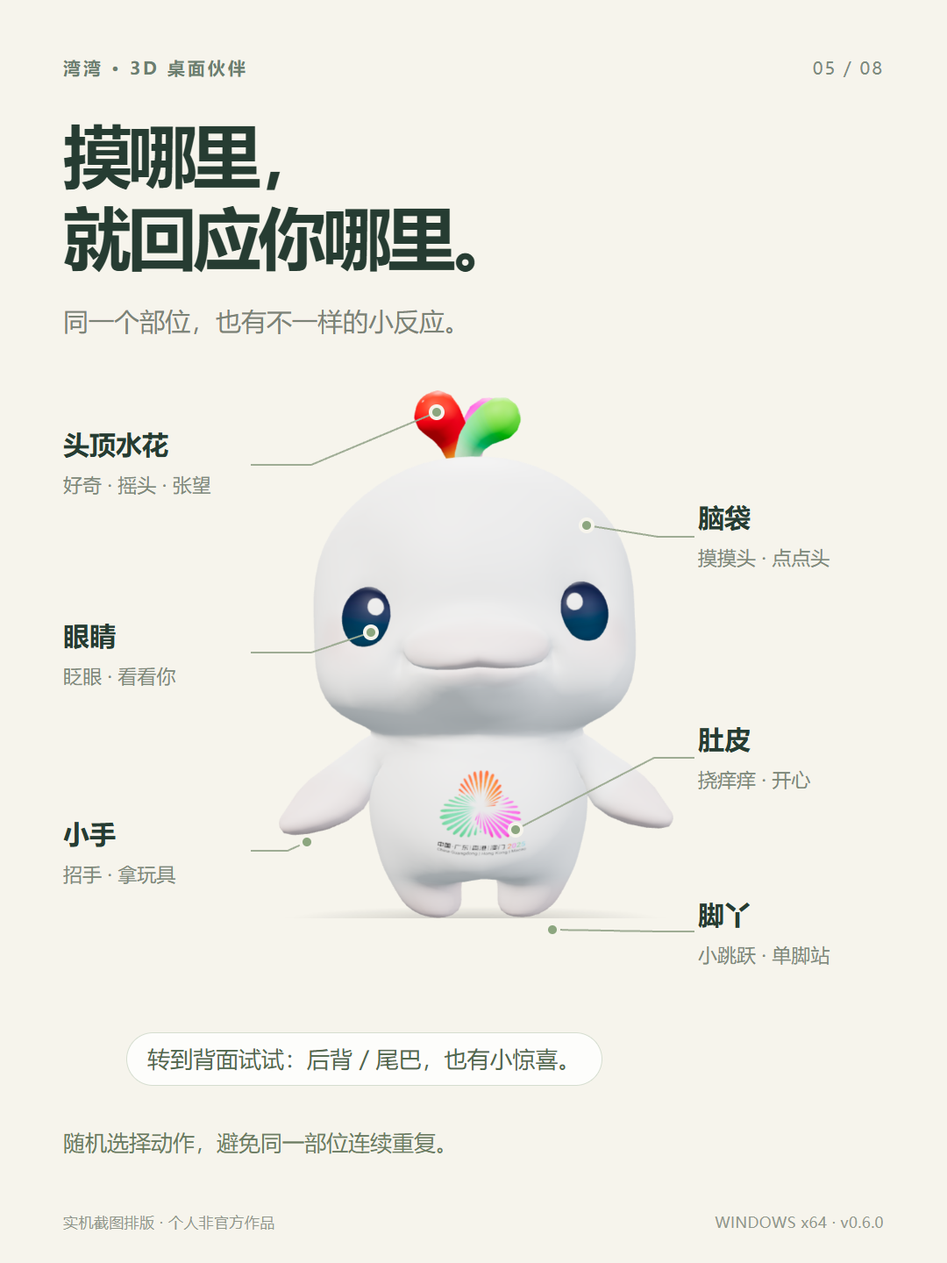
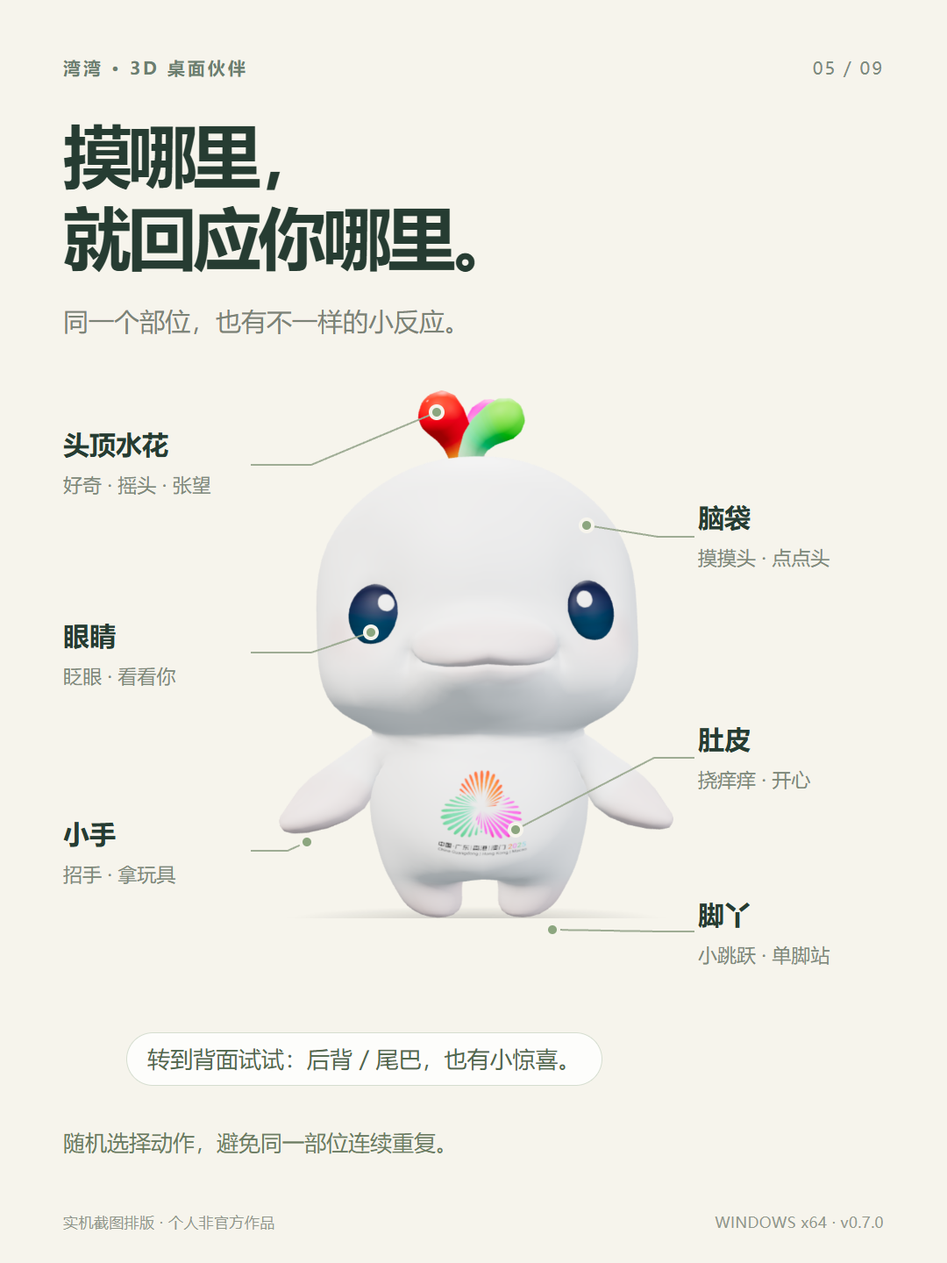
Release v0.7.0 with custom names and natural tennis and edge animations

diff --git a/src/panel.js b/src/panel.js
@@ -3,7 +3,8 @@ decorateIcons();
 (async () => {
 const api = window.bay;
 const $ = s => document.querySelector(s);
-let state, busy = false, pending = null, responseText = '', dirty = false, lastError = '';
+let state, busy = false, pending = null, responseText = '', dirty = false, sizeChanged = false, lastError = '';
+const name=()=>state?.settings.nickname||'湾湾';
 function toast(text) { $('#toast').textContent = text; $('#toast').hidden = false; clearTimeout(toast.timer); toast.timer = setTimeout(() => $('#toast').hidden = true, 4500); }
 function tab(name) {
   api.resizePanel(name);
@@ -13,7 +14,7 @@ function tab(name) {
 }
 function message(role, content, extra = '') {
   const div = document.createElement('div'); div.className = `message ${role} ${extra}`;
-  const label = document.createElement('span'); label.className = 'message-label'; label.textContent = role === 'user' ? '你' : (state?.connected ? '湾湾' : '湾湾 · 离线预设');
+  const label = document.createElement('span'); label.className = 'message-label'; label.textContent = role === 'user' ? '你' : (state?.connected ? name() : `${name()} · 离线预设`);
   const body = document.createElement('div'); body.className = 'message-content'; body.textContent = content;
   div.append(label, body); $('#messages').append(div); scroll(); return div;
 }
@@ -28,13 +29,18 @@ function renderHistory() {
 }
 function fillSettings() {
   const s = state.settings;
-  for (const id of ['provider', 'endpoint', 'model', 'scale', 'motionSpeed', 'motionIntensity']) $('#' + id).value = s[id];
+  sizeChanged=false;
+  for (const id of ['nickname', 'provider', 'endpoint', 'model', 'scale', 'motionSpeed', 'motionIntensity']) $('#' + id).value = s[id];
   for (const id of ['voice', 'alwaysOnTop','edgeSnap']) $('#' + id).checked = s[id];
   $(`input[name=skin][value=${s.skin}]`).checked = true;
   $('#key-status').textContent = state.hasKey ? '已保存 · 留空保留' : '未设置';
 }
 function update(next) {
   state = next;
+  document.title=name();
+  $('#rename-pet').textContent=name();$('#rename-pet').title=`${name()} · 点击改名`;
+  $('#hello-chip').textContent=`你好，${name()}`;$('#help-title').textContent=`陪${name()}玩`;
+  $('#message-input').placeholder=`和${name()}说点什么…`;
   $('#app-version').textContent=`湾湾 v${state.version}`;
   $('#shortcut-status').textContent=`${state.shortcuts?.toggle?'F8 显示 / 隐藏':'F8 被占用，请使用托盘'} · ${state.shortcuts?.panel?'Ctrl + Alt + B 打开面板':'面板快捷键被占用，可点「…」'}`;
   $('.connection').classList.toggle('online', state.connected);
@@ -76,10 +82,13 @@ $('#message-input').addEventListener('keydown', e => { if (e.key === 'Enter' && 
 $('#stop').onclick = () => api.cancelChat();
 $('#close').onclick = () => { speechSynthesis?.cancel(); api.closePanel(); };
 $('#connect-link').onclick = () => tab('settings');
+$('#rename-pet').onclick=()=>{tab('settings');$('#nickname').focus();$('#nickname').select();};
 document.querySelectorAll('.tab').forEach(b => b.onclick = () => tab(b.dataset.tab));
 document.querySelectorAll('.suggestions button').forEach(b => b.onclick = () => b.id === 'dance-chip' ? api.action('dance') : void submit(b.textContent));
 $('#clear-history').onclick = async () => { if (busy) return toast('请先停止当前回复。'); const r = await api.clearHistory(); if (!r.ok) toast(r.error); else { lastError = ''; state = await api.getState(); renderHistory(); speechSynthesis?.cancel(); toast('聊天记录已清空。'); } };
 $('#settings-form').oninput = () => { dirty = true; $('#settings-feedback').textContent = ''; };
+$('#scale').oninput=()=>{sizeChanged=true;};
+$('#nickname').oninput=e=>{const n=Array.from(new Intl.Segmenter('zh',{granularity:'grapheme'}).segment(e.target.value.trim())).length;e.target.setCustomValidity(n>16?'名字最多 16 个字。':'');};
 $('#provider').onchange = () => {
   if ($('#provider').value === 'openai') { $('#endpoint').value = 'https://api.openai.com/v1'; $('#model').value = 'gpt-6-astra'; }
   else { $('#endpoint').value = 'http://localhost:11434/v1'; $('#model').value = 'qwen3:8b'; }
@@ -88,10 +97,10 @@ $('#settings-form').onsubmit = async e => {
   e.preventDefault(); const button = $('.save-button'); button.disabled = true;
   try {
     const result = await api.saveSettings({ ...state.settings, provider: $('#provider').value, endpoint: $('#endpoint').value, model: $('#model').value,
-      apiKey: $('#apiKey').value, clearKey: $('#clearKey').checked, scale: Number($('#scale').value),
+      nickname:$('#nickname').value,apiKey: $('#apiKey').value, clearKey: $('#clearKey').checked, scale: sizeChanged?Number($('#scale').value):state.settings.scale,
       skin: $('input[name=skin]:checked').value, edgeSnap:$('#edgeSnap').checked,voice: $('#voice').checked, alwaysOnTop: $('#alwaysOnTop').checked,
       motionSpeed: Number($('#motionSpeed').value), motionIntensity: Number($('#motionIntensity').value) });
-    $('#settings-feedback').textContent = result.ok ? '已保存，湾湾准备好啦。' : result.error;
+    $('#settings-feedback').textContent = result.ok ? '已保存，准备好啦。' : result.error;
     if (result.ok) { dirty = false; $('#apiKey').value = ''; $('#clearKey').checked = false; update(await api.getState()); }
   } catch { $('#settings-feedback').textContent = '保存失败，请重新打开桌宠后重试。'; } finally { button.disabled = false; }
 };
@@ -107,7 +116,7 @@ api.on('help:open',showHelp);
 function renderPet(p) {
   if (!p) return;
   const labels={wave:'招手',dance:'跳舞',jump:'开心蹦蹦',stretch:'伸懒腰',spin:'转圈',pet:'享受摸头',tickle:'被挠痒痒',sleep:'打瞌睡',curious:'歪头想事情',wink:'给你眨眼',look:'左顾右盼',happy:'开心眯眼',sitDown:'找凳子坐',standUp:'从凳子起身',eat:'吃糖葫芦',ball:'玩小球',pinwheel:'吹风车',tennis:'网球对打',serve:'抛球发球',victory:'好球庆祝'};
-  $('#presence-text').textContent = p.paused ? '湾湾在这里，静静陪你' : `湾湾正在${labels[p.mode] || (p.edge?'趴边陪你':p.posture === 'sit' ? '坐着陪你' : '站着陪你')}`;
+  $('#presence-text').textContent = p.paused ? `${name()}在这里，静静陪你` : `${name()}正在${labels[p.mode] || (p.edge?'趴边陪你':p.posture === 'sit' ? '坐着陪你' : '站着陪你')}`;
   $('#expression-text').textContent = p.expression;
   document.querySelectorAll('#play-view [data-action]').forEach(b => { const active=b.dataset.action === (p.mode === 'idle' ? p.posture : p.mode); b.classList.toggle('selected',active); b.setAttribute('aria-pressed',String(active)); });
   $('#pause-motion span').textContent = p.paused ? '继续' : '暂停';

diff --git a/src/panel.html b/src/panel.html
@@ -1,6 +1,6 @@
 <!doctype html><html lang="zh-CN"><head><meta charset="UTF-8"><meta name="viewport" content="width=device-width,initial-scale=1"><meta http-equiv="Content-Security-Policy" content="default-src 'self'; script-src 'self'; style-src 'self' 'unsafe-inline'; img-src 'self' data:; connect-src 'none'; media-src 'self' blob:"><title>湾湾的小窝</title><link rel="stylesheet" href="style.css"></head><body class="panel-page">
 <main class="panel-shell">
-<header class="titlebar"><strong>湾湾</strong><span id="expression-text">自然</span><button class="icon-button" id="close" title="收起" aria-label="收起窗口">×</button></header>
+<header class="titlebar"><button id="rename-pet" class="pet-name-button" title="给它起个名字" aria-label="给桌宠改名">湾湾</button><span id="expression-text">自然</span><button class="icon-button" id="close" title="收起" aria-label="收起窗口">×</button></header>
 <div class="tabs"><button class="tab active" data-tab="play">互动</button><button class="tab" data-tab="chat">聊天</button><button class="tab" data-tab="settings">设置</button></div>
 <section id="play-view" class="view play-view">
 <div class="compact-status"><span class="alive-dot"></span><span id="presence-text">就在你身边</span><button id="panel-reset-view" title="视角回正" aria-label="视角回正"><i data-icon="reset"></i></button></div>
@@ -19,14 +19,15 @@
 <section id="chat-view" class="view chat-view" hidden>
 <div class="connection"><span class="status-dot"></span><span id="connection-label">离线陪伴</span><button id="connect-link">连接 AI ↗</button></div>
 <div id="messages" class="messages" role="log" aria-live="polite"><div class="welcome"><span class="welcome-kicker">HELLO, MY HUMAN</span><h1>你忙你的，<br>我陪着你<span>。</span></h1><p>一只爱整活的大湾鸡，<br>和一点刚刚好的陪伴。</p><div class="welcome-line"></div><span class="welcome-tip">摸摸头 · 一起发呆 · 随时说说话</span></div></div>
-<div id="suggestions" class="suggestions"><button>今天有点累</button><button>你好，湾湾</button><button id="dance-chip">跳个舞吧 ♫</button></div>
+<div id="suggestions" class="suggestions"><button>今天有点累</button><button id="hello-chip">你好，湾湾</button><button id="dance-chip">跳个舞吧 ♫</button></div>
 <div class="composer-wrap"><form id="chat-form" class="composer"><textarea id="message-input" rows="2" maxlength="8000" placeholder="和湾湾说点什么…" aria-label="聊天消息"></textarea><div class="composer-bottom"><span>Enter 发送 · Shift + Enter 换行</span><button id="send" type="submit" title="发送消息" aria-label="发送消息">↑</button><button id="stop" type="button" hidden>停止</button></div></form><div class="composer-note"><span id="privacy-note">离线回应是预设台词 · 不发送到网络</span><button id="clear-history">清空聊天</button></div></div>
 </section>
 <section id="settings-view" class="view settings-view" hidden>
 <div class="settings-heading"><span class="welcome-kicker"></span><h2>偏好设置</h2></div>
 <form id="settings-form">
+<div class="settings-card"><div class="section-caption">它的名字</div><label for="nickname">给桌宠起个名字<input id="nickname" name="nickname" maxlength="512" placeholder="湾湾" autocomplete="off" spellcheck="false" aria-describedby="name-note"></label><p id="name-note" class="field-note">最多 16 个字，支持表情；留空恢复“湾湾”。下次打开也会记住。</p></div>
 <div class="settings-card"><div class="section-caption">互动与动作</div><label class="toggle-row">靠近边缘自动趴边<input id="edgeSnap" type="checkbox" checked></label><label class="range-label">动作速度 <input id="motionSpeed" type="range" min="0.6" max="1.6" step="0.1" value="1"></label><label class="range-label">动作幅度 <input id="motionIntensity" type="range" min="0.5" max="1.3" step="0.1" value="1"></label><p class="field-note">“互动”里可开关自主小动作和目光跟随。玩玩具、表情动作后保留坐姿；跳跃、跳舞等需要先站起来。</p></div>
-<div class="settings-card"><div class="section-caption">01 / 湾湾的模样</div><div class="skin-options"><label><input type="radio" name="skin" value="white" checked><span class="skin-swatch white"></span>白色湾湾</label><label><input type="radio" name="skin" value="pink"><span class="skin-swatch pink"></span>粉色湾湾</label></div><label class="range-label">桌宠大小 <input id="scale" type="range" min="0.7" max="1.35" step="0.05" value="1"></label><label class="toggle-row">始终放在其他窗口上方<input id="alwaysOnTop" type="checkbox" checked></label><label class="toggle-row">朗读回复（系统语音）<input id="voice" type="checkbox"></label></div>
+<div class="settings-card"><div class="section-caption">01 / 外观</div><div class="skin-options"><label><input type="radio" name="skin" value="white" checked><span class="skin-swatch white"></span>白色</label><label><input type="radio" name="skin" value="pink"><span class="skin-swatch pink"></span>粉色</label></div><label class="range-label">桌宠大小 <input id="scale" type="range" min="0.7" max="1.35" step="0.05" value="1"></label><label class="toggle-row">始终放在其他窗口上方<input id="alwaysOnTop" type="checkbox" checked></label><label class="toggle-row">朗读回复（系统语音）<input id="voice" type="checkbox"></label></div>
 <div class="settings-card"><div class="section-caption">02 / 连接 AI</div><label>接口类型<select id="provider"><option value="openai">OpenAI · Responses API</option><option value="compatible">兼容接口 · Chat Completions</option></select></label><label>接口地址<input id="endpoint" type="url" value="https://api.openai.com/v1" spellcheck="false" required></label><label>模型名称<input id="model" value="gpt-6-astra" spellcheck="false" required></label><label>API Key <span id="key-status"></span><input id="apiKey" type="password" placeholder="输入密钥，保存在本机系统加密存储中" autocomplete="off" spellcheck="false"></label><label class="toggle-row muted">移除已保存的密钥<input id="clearKey" type="checkbox"></label><p class="field-note">支持 OpenAI、兼容服务和本机模型。换接口时需重新填写对应密钥。接入后会向所选服务发送当前消息和最近 24 条对话。</p></div>
 <button class="save-button" type="submit">保存设置 <span>↗</span></button><p id="settings-feedback" role="status"></p>
 </form>

diff --git a/src/props.js b/src/props.js
@@ -1,5 +1,6 @@
 import * as THREE from 'three';
 import {tennisSample} from './tennis.mjs';
+import {buildTennisRacket,RACKET_PROFILE} from './tennis-racket.mjs';
 
 const up=new THREE.Vector3(0,1,0),v=new THREE.Vector3(),mouth=new THREE.Vector3(),direction=new THREE.Vector3(),q=new THREE.Quaternion();
 const clamp=THREE.MathUtils.clamp;
@@ -39,16 +40,11 @@ export function createProps(scene){
   const petal=new THREE.Shape();petal.moveTo(0,0);petal.bezierCurveTo(.03,.23,.23,.32,.28,.12);petal.quadraticCurveTo(.18,.02,0,0);
   for(let i=0;i<4;i++){const p=mesh(rotor,new THREE.ExtrudeGeometry(petal,{depth:.014,bevelEnabled:true,bevelSegments:2,steps:1,bevelSize:.008,bevelThickness:.005,curveSegments:12}),mat(['#e8b09c','#afcbb3','#d0bfdc','#efd491'][i],.35));p.rotation.z=i*Math.PI/2;}
   sphere(rotor,.045,mat('#f8e8c9'),[0,0,.05]);
-  const racket=new THREE.Group();racket.name='tennis-racket';racket.userData.action='tennis';scene.add(racket);
-  const frame=mat('#8db7a4',.38),handle=mat('#384d50',.85);
-  cylinder(racket,.034,.030,.30,handle,[0,.10,0]);cylinder(racket,.018,.018,.20,frame,[0,.32,0]);
-  const hoop=mesh(racket,new THREE.TorusGeometry(.24,.023,10,48),frame,[0,.72,0]);hoop.scale.y=1.32;
-  const strings=[];for(let i=-3;i<=3;i++){const a=i*.059,b=Math.sqrt(1-(a/.24)**2)*.316;strings.push(a,.72-b,0,a,.72+b,0);const y=i*.077,x=Math.sqrt(1-(y/.316)**2)*.24;strings.push(-x,.72+y,0,x,.72+y,0);}
-  const stringMesh=new THREE.LineSegments(new THREE.BufferGeometry().setAttribute('position',new THREE.Float32BufferAttribute(strings,3)),new THREE.LineBasicMaterial({color:'#faf5de'}));racket.add(stringMesh);
+  const racket=buildTennisRacket();scene.add(racket);
   const tennisBall=new THREE.Group();tennisBall.name='tennis-ball';tennisBall.userData.action='tennis';scene.add(tennisBall);
-  sphere(tennisBall,.112,mat('#c5dc42',.96),[0,0,0]);
-  const seam=[];for(let i=0;i<=80;i++){const a=i/80*Math.PI*2;seam.push(new THREE.Vector3(Math.cos(a)*.8,Math.sin(a),.6*Math.cos(2*a)).normalize().multiplyScalar(.114));}
-  mesh(tennisBall,new THREE.TubeGeometry(new THREE.CatmullRomCurve3(seam,true),80,.0045,5,true),mat('#ffffe4',.9));
+  sphere(tennisBall,RACKET_PROFILE.ballRadius,mat('#c5dc42',.96),[0,0,0]);
+  const seam=[];for(let i=0;i<=80;i++){const a=i/80*Math.PI*2;seam.push(new THREE.Vector3(Math.cos(a)*.8,Math.sin(a),.6*Math.cos(2*a)).normalize().multiplyScalar(RACKET_PROFILE.ballRadius+.0015));}
+  mesh(tennisBall,new THREE.TubeGeometry(new THREE.CatmullRomCurve3(seam,true),80,.003,5,true),mat('#ffffe4',.9));
   const contact=new THREE.Vector3(),ballOffset=new THREE.Vector3(),rotation=new THREE.Euler();
   const all=[stool,candy,ball,pinwheel,racket,tennisBall];all.forEach(o=>{o.visible=false;o.traverse(m=>{if(m.material)m.material=m.material.clone();});});
   const pose={chair:0,eat:0,bites:0,ball:0,pinwheel:0,tennis:0,tennisKind:0,tennisPhase:''};
@@ -79,20 +75,20 @@ export function createProps(scene){
     }
     fade(racket,clamp(p.tennis||0,0,1));fade(tennisBall,clamp(p.tennis||0,0,1));
     if(racket.visible){
-      character.bone.armR.localToWorld(v.set(.46,-.18,.24));racket.position.copy(v);root.getWorldQuaternion(q);racket.quaternion.copy(q).multiply(new THREE.Quaternion().setFromEuler(rotation.set(.75,0,p.racketAngle||0)));racket.scale.setScalar(s);racket.updateMatrixWorld(true);
-      racket.localToWorld(contact.set(0,.72,.035));const a=tennisSample(Math.round(p.tennisKind),p.toyTime);pose.tennisPhase=a.phase;
+      character.bone.armR.localToWorld(v.set(.46,-.18,.30));racket.position.copy(v);root.getWorldQuaternion(q);racket.quaternion.copy(q).multiply(new THREE.Quaternion().setFromEuler(rotation.set(p.racketPitch??.65,p.racketYaw||0,p.racketAngle||0)));racket.scale.setScalar(s);racket.updateMatrixWorld(true);
+      racket.localToWorld(contact.set(0,RACKET_PROFILE.center,.035));const a=tennisSample(Math.round(p.tennisKind),p.toyTime);pose.tennisPhase=a.phase;pose.contactDelta=a.delta;
       if(a.celebrate)tennisBall.visible=false;
       else if(a.toss){
-        const u=clamp((p.toyTime-.7)/2.4,0,1);root.localToWorld(v.set(-.65+1.5*u,1.02+Math.sin(u*Math.PI)*1.60+.55*u,1.05));
-        v.lerp(contact,Math.max(0,(u-.8)/.2));tennisBall.position.copy(v);
+        const u=clamp((p.toyTime-.7)/2.4,0,1);character.bone.armL.localToWorld(v.set(-.46,-.18,.30));root.localToWorld(ballOffset.set(-.78+1.60*u,1.06+Math.sin(u*Math.PI)*1.95+.75*u,1.04));v.lerp(ballOffset,clamp((p.toyTime-.45)/.35,0,1));
+        v.lerp(contact,Math.pow(clamp((u-.65)/.35,0,1),2));tennisBall.position.copy(v);
       }else{
-        const d=clamp(a.delta/.9,-1,1);ballOffset.set(-d*.85,Math.sin(Math.abs(d)*Math.PI)*.32,d>.05?.40*d:.28*Math.abs(d)).applyQuaternion(q).multiplyScalar(s);tennisBall.position.copy(contact).add(ballOffset);
-        if(Math.abs(a.delta)>.95)tennisBall.visible=false;
+        const d=clamp(a.delta/1.0,-1,1);ballOffset.set(-d*1.35,Math.sin(Math.abs(d)*Math.PI)*.40+(d>0?d*.12:0),Math.abs(d)*.38).applyQuaternion(q).multiplyScalar(s);tennisBall.position.copy(contact).add(ballOffset);
+        if(Math.abs(a.delta)>1.05)tennisBall.visible=false;
       }
-      tennisBall.scale.setScalar(s);if(!paused)tennisBall.rotation.x+=dt*5;
+      tennisBall.scale.setScalar(s);if(!paused){tennisBall.rotation.x+=dt*8;tennisBall.rotation.z+=dt*3;}pose.contactGap=tennisBall.position.distanceTo(contact)/s;
     }
   }
   function pickables(){const result=[];function visit(o){if(!o.visible)return;if(o.isMesh)result.push(o);for(const c of o.children)visit(c);}all.forEach(visit);return result;}
   function actionFor(object){for(let o=object;o;o=o.parent)if(o.userData.action)return o.userData.action;return null;}
-  return{all,update,pickables,actionFor,diagnostics:()=>({...pose,visible:all.filter(o=>o.visible).map(o=>o.name)})};
+  return{all,update,pickables,actionFor,diagnostics:()=>({...pose,racket:RACKET_PROFILE,visible:all.filter(o=>o.visible).map(o=>o.name)})};
 }

diff --git a/src/pet.html b/src/pet.html
@@ -4,6 +4,6 @@
 <div class="pet-bubble quiet" id="bubble">嗨，我是湾湾！今天也陪着你。</div>
 <div id="sleepy" class="sleepy" hidden aria-hidden="true">z<span>z</span></div>
 <div id="pet-dock" class="pet-dock" data-interactive hidden><nav class="pet-tools" aria-label="桌宠工具栏"><button id="move-pet" title="拖动搬家（或按住 Shift 拖动玩偶）" aria-label="拖动搬家"><i data-icon="move"></i></button><button data-action="pet" title="摸摸头" aria-label="摸摸头"><i data-icon="pet"></i></button><button id="reset-view" title="视角回正（双击玩偶）" aria-label="视角回正"><i data-icon="reset"></i></button><button id="more-actions" title="动作与设置" aria-label="动作与设置"><i data-icon="more"></i></button></nav>
-<div class="pet-label"><span class="alive-dot"></span>湾湾 <span id="pet-state">站着陪你</span></div>
+<div class="pet-label"><span class="alive-dot"></span><span id="pet-name">湾湾</span> <span id="pet-state">站着陪你</span></div>
 </div>
 <script src="pet.js"></script></body></html>

diff --git a/src/style.css b/src/style.css
@@ -11,3 +11,5 @@
 .edge-actions{display:flex;gap:6px;margin-bottom:8px}.edge-actions button{flex:1;font-size:10px;padding:7px 4px;border:1px solid #e6e6e6;border-radius:6px;color:#888}.sports-grid button{font-size:9px;padding:8px 0}
 
 .pet-page.perched .pet-bubble{display:none}
+.pet-name-button{font-size:12px;font-weight:600;max-width:155px;overflow:hidden;text-overflow:ellipsis;white-space:nowrap;padding:1px 0;-webkit-app-region:no-drag;text-align:left;border-radius:3px}.pet-name-button:hover{color:#666}.pet-name-button:focus-visible{outline:1px solid #aaa;outline-offset:3px}.compact-status #presence-text{min-width:0;overflow:hidden;text-overflow:ellipsis}.pet-label #pet-name{max-width:110px;overflow:hidden;text-overflow:ellipsis;white-space:nowrap;min-width:0;flex-shrink:1}.titlebar #expression-text{white-space:nowrap}
+.pet-name-button::after{content:'✎';font-size:10px;color:#aaa;margin-left:5px;font-weight:400}

diff --git a/docs/verification-v0.7.0.md b/docs/verification-v0.7.0.md
@@ -1,0 +1,24 @@
+# v0.7.0 验证记录
+
+日期：2026-11-02。本机 Windows x64 高 DPI 桌面，Electron 45.1.0。
+
+| 验证 | 结果 |
+| --- | --- |
+| 单元测试 | 23 项通过，含原有运动/交互检查及新增 Unicode 昵称、AI 称呼、网球几何结构、趴边连续性 |
+| v0.6 → v0.7 升级 | 独立测试目录先安装 v0.6，再覆盖安装 v0.7，实际文件版本由 0.6.0.0 更新为 0.7.0.0 |
+| 安装版改名 | 点击面板标题进入设置；中文/表情保存，纯文本显示 `<茶茶&>`，17 字输入被拦截，离线介绍同步，退出后昵称保留 |
+| 保持大小 | 使用非滑块整数步长的 scale=1.13，真实界面改名后保持原值；先缩放再遍历四边，视距不被重置，窗口名义大小不变；分数 DPI 的物理定位允许 1 DIP 舍入 |
+| 安装版网球 | 三套动作可用；实机截图检查引拍、接触、随挥、抛球与庆祝，接触时球与拍面位置对齐 |
+| 安装版趴边 | 四边抓握对齐实际工作区，误差小于 5 DIP；摸头、拖离、Esc 恢复、自动吸附、运动前离开和开关均通过 |
+| 启动恢复 | 隔离启动器载入实际 app.asar 入口，验证旧设置兼容、昵称和 scale=1.15 恢复、自动吸附关闭时仍恢复手动顶边状态 |
+| 原有功能 | 安装版左右键、误触保护、Esc、键盘、重试、渲染进程崩溃恢复、退出保存、凳子/玩具、8 部位随机互动、眼神、两色模型和本机模拟聊天回归通过 |
+| 紧凑面板 | 默认互动页无需滚动，三点按钮可以收起面板 |
+| 单文件 EXE | 自解压、模型加载、改名、原有玩具、网球拍、底边抓握和无渲染错误均通过 |
+| 原始模型 | 三个 GLB 的大小和 SHA-256 与来源清单完全一致 |
+| 分享素材 | 9 张 1080×1440 实机配图，保留原始截图和采集记录；素材包 42 个条目，ZIP CRC 通过 |
+
+执行命令：`node --test tests/*.test.cjs`、`node scripts/refinement-smoke.cjs`、`node scripts/sports-edge-smoke.cjs`、`node scripts/controls-smoke.cjs`、`node scripts/edge-restore-smoke.cjs`、`node scripts/props-smoke.cjs`、`node scripts/inspect-ui.cjs`、`node scripts/smoke.cjs`、`node scripts/portable-smoke.cjs`。安装版检查通过 `BAY_EXECUTABLE` 指向独立目录中的实际 EXE，启动恢复使用隔离配置载入打包入口。
+
+测试使用隔离数据目录，不读取个人聊天或密钥。自动拖动检查由同进程光标替身驱动，实际窗口位置和工作区通过 Windows/Electron 接口检查。趴边是显示器可用桌面边界，不检测其他应用窗口边框；实体多屏 DPI 组合和所有显卡驱动未逐一覆盖，发布文件未配置代码签名。
+
+GitHub CI 执行 Windows 冻结依赖、单元测试和构建。发布时另核对 GitHub 资产大小和服务端 SHA-256 与本地产物一致。

diff --git a/docs/RELEASE-v0.7.0.md b/docs/RELEASE-v0.7.0.md
@@ -1,0 +1,30 @@
+# 湾湾大湾鸡 v0.7.0 · 起名字，更自然地玩
+
+这版支持给桌宠起自己的名字，重做网球拍和挥拍动作，并调整四边趴靠。原始白粉模型、默认尺寸、已有大小设置和左右键操作继续保留。
+
+## 改名字
+
+点面板左上角的名字，或进入「设置」第一项，填写后保存。最多 16 个字，支持完整表情；留空恢复“湾湾”。底栏、面板、托盘和对话中的称呼同步更新，下次打开也会记住。改名不会改变已保存的大小。
+
+## 网球
+
+- 重做粗椭圆拍框、开放 Y 形喉部、横梁、八角短握把和螺旋缠带，采用 16×19 线床，调整小网球与拍面的比例。
+- 对打由侧身引拍、稳定支撑脚、身体带动击球、顺势随挥与回位组成。
+- 发球保留左手抛球、目光追踪和右手引拍；提示气泡提前淡出。
+- 「…」→「动作与玩具」里选择网球对打、抛球发球和好球庆祝。
+
+## 趴边
+
+- 分阶段伸手、抓稳、靠住；左右边探头时头部反向轻倾，手臂分担支撑，腿部小动作错开。
+- 保留呼吸、眨眼、眼神跟随、摸头和表情反应，摸头不会重新播放抓边过程。
+- 四边吸附、拖走恢复、Esc 取消、手动贴边与自动吸附开关继续可用。按显示器可用桌面计算，底边通常为任务栏上沿。
+- 贴边不会重置当前缩放，模型归一化高度和默认相机距离不变。
+
+## 文件
+
+- **BayChicken-Setup-0.7.0-x64.exe**：中文安装版。
+- **BayChicken-Portable-0.7.0-x64.exe**：单文件便携版，首次需等待解包。
+- **BayChicken-Xiaohongshu-Kit-v0.7.0.zip**：9 张分享图、原始实机截图、来源说明和文案。
+- **SHA256SUMS.txt**：文件校验值。
+
+更新前退出旧版，继续使用原有用户数据。形象互动无需 API Key，AI 聊天需自行配置。程序未配置代码签名；实体多显示器的全部 DPI 组合尚未逐一覆盖。模型与标识权利归对应权利人，属于个人非官方作品。验证范围见 `docs/verification-v0.7.0.md`。

diff --git a/CHANGELOG.md b/CHANGELOG.md
@@ -1,5 +1,14 @@
 # 版本记录
 
+## v0.7.0 · 2026-11-02
+
+- 新增自定义名字，支持中文和完整表情；设置页第一项或面板标题可改名，底栏、面板、托盘和聊天称呼同步并保存。
+- 重做网球拍：粗椭圆框、开放 Y 形喉部、缠带短握把、16×19 线床，调整网球与拍面比例。
+- 优化侧身引拍、稳定支撑脚、身体带动挥拍、随挥与回位；抛球时提示气泡提前淡出。
+- 趴边分为伸手、抓稳、靠住，左右边头部反向轻倾，手臂分担支撑，保留表情和轻微交错腿部动作。
+- 保持原始模型、默认尺寸与用户大小设置，改名和贴边不重置当前缩放。
+- 新增改名、运动几何、动作连续性、大小/缩放保留和保存恢复检查，分享素材扩展为 9 张。
+
 ## v0.6.0 · 2026-11-02
 
 - 新增网球对打、抛球发球、好球庆祝三套动作，含三维球拍、荧光网球、球网、触球时序、脚步与目光。

diff --git a/research/tennis-notes.md b/research/tennis-notes.md
@@ -1,0 +1,7 @@
+# 网球道具与动作调整 · v0.7.0
+
+参考来源：[Wilson Blade 100 V10 官方产品页](https://www.wilson.com/en-us/products/blade-100-v10-tennis-racket-wr20820)，2026-11-02 查阅。页面实物图展示椭圆拍框、开放式喉部和缠带握把，规格列出 16 × 19 线床。
+
+本项目使用自行编写的 Three.js 几何体：加粗椭圆框、开放 Y 形喉部、桥接横梁、八角短握把、螺旋缠带及 16 × 19 线床，不复制品牌标识或商品贴图。拍面与球的比例按桌宠的可见性作卡通化处理，不作为实物尺寸模拟。
+
+对打分为侧身引拍、支撑脚稳定、腰身带动挥拍、随挥与回位。发球包含左手抛球、目光跟球、右手引拍与击球。球与拍面的接触时间共用运动采样器，发球提示气泡提前淡出，给抛球轨迹留出视线。角色 GLB、默认相机距离、模型归一化高度和用户保存的大小均不变。

diff --git a/docs/share/小红书文案.md b/docs/share/小红书文案.md
@@ -25,6 +25,8 @@
 
 已经打包成 Windows x64 EXE，安装版和单文件便携版都放在 GitHub Releases 了。
 
+这次还能给它起自己的名字，改完以后，底栏、面板和托盘都会跟着换，重启也记得。网球拍重做了 Y 形喉部和缠带握把，挥拍有引拍、击球和随挥；趴边也会先抓稳再靠住。
+
 仓库：MikeJack302/bay-chicken-desktop
 
 目前重点是形象和动作互动。AI 聊天需要自行接入模型服务；未配置时是预设回应。
@@ -57,6 +59,7 @@ EXE 安装版和单文件便携版已放到 GitHub：MikeJack302/bay-chicken-des
 6. `06-download.png`：EXE 下载和使用说明。
 7. `07-tennis.png`：网球动作与三维球拍。
 8. `08-screen-edges.png`：四边趴边互动。
+9. `09-make-it-yours.png`：自定义名字与设置实机。
 
 图片为 1080 × 1440 PNG（3:4）。`preview.png` 仅用于总览，不建议作为发布图片。
 
